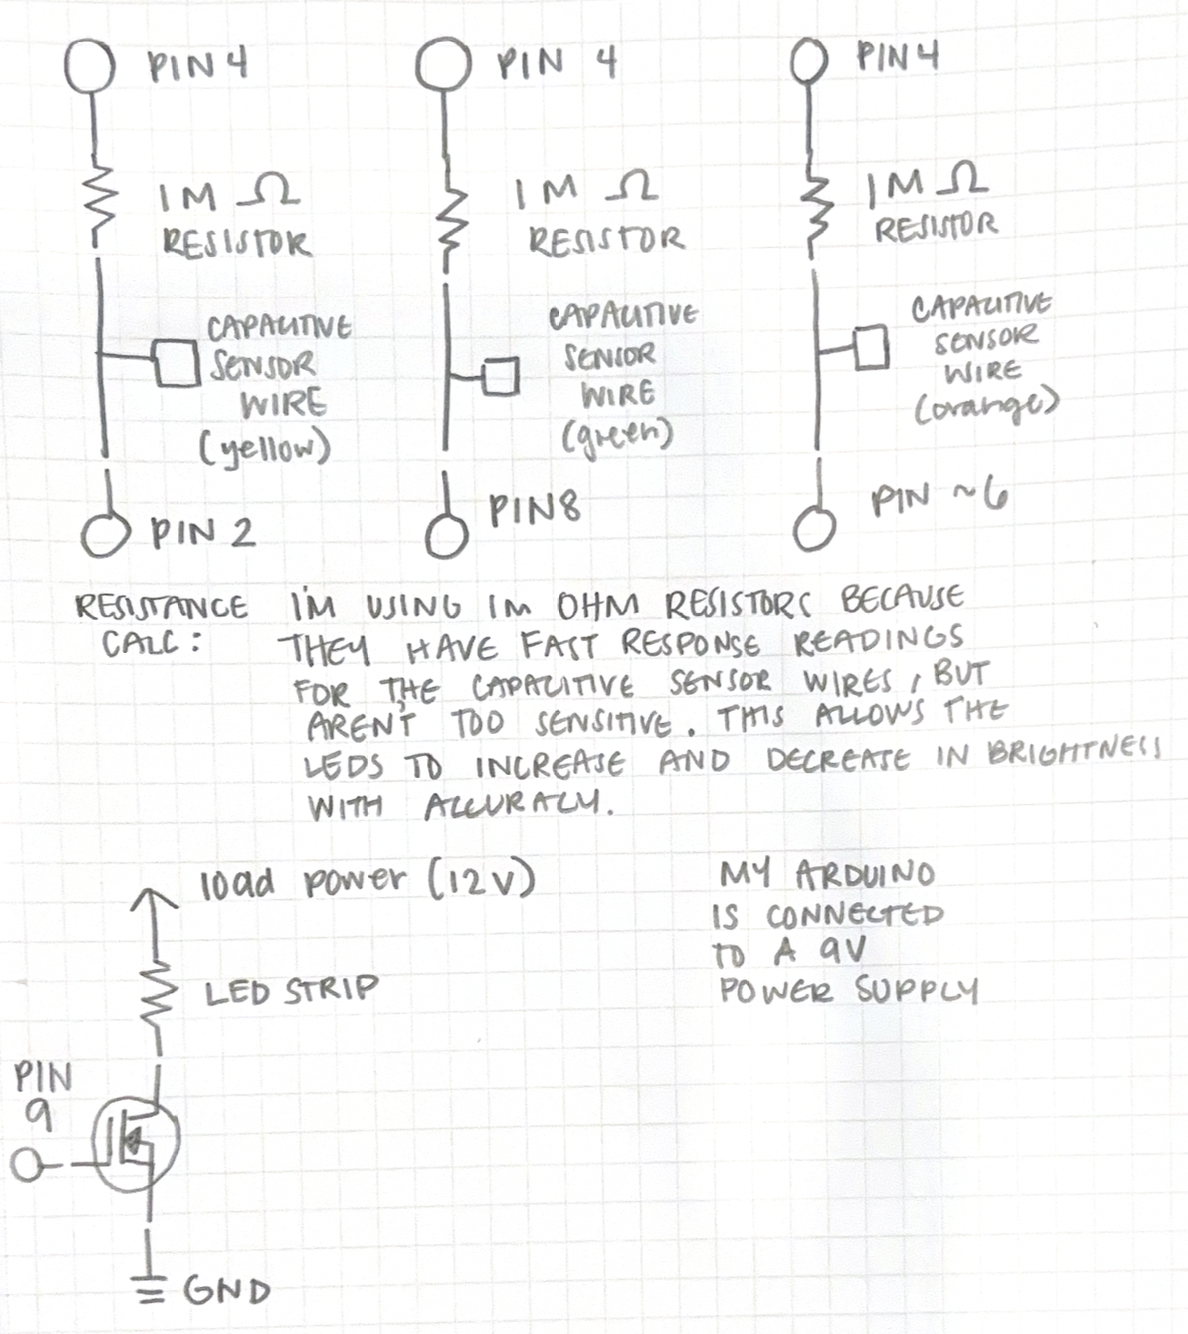
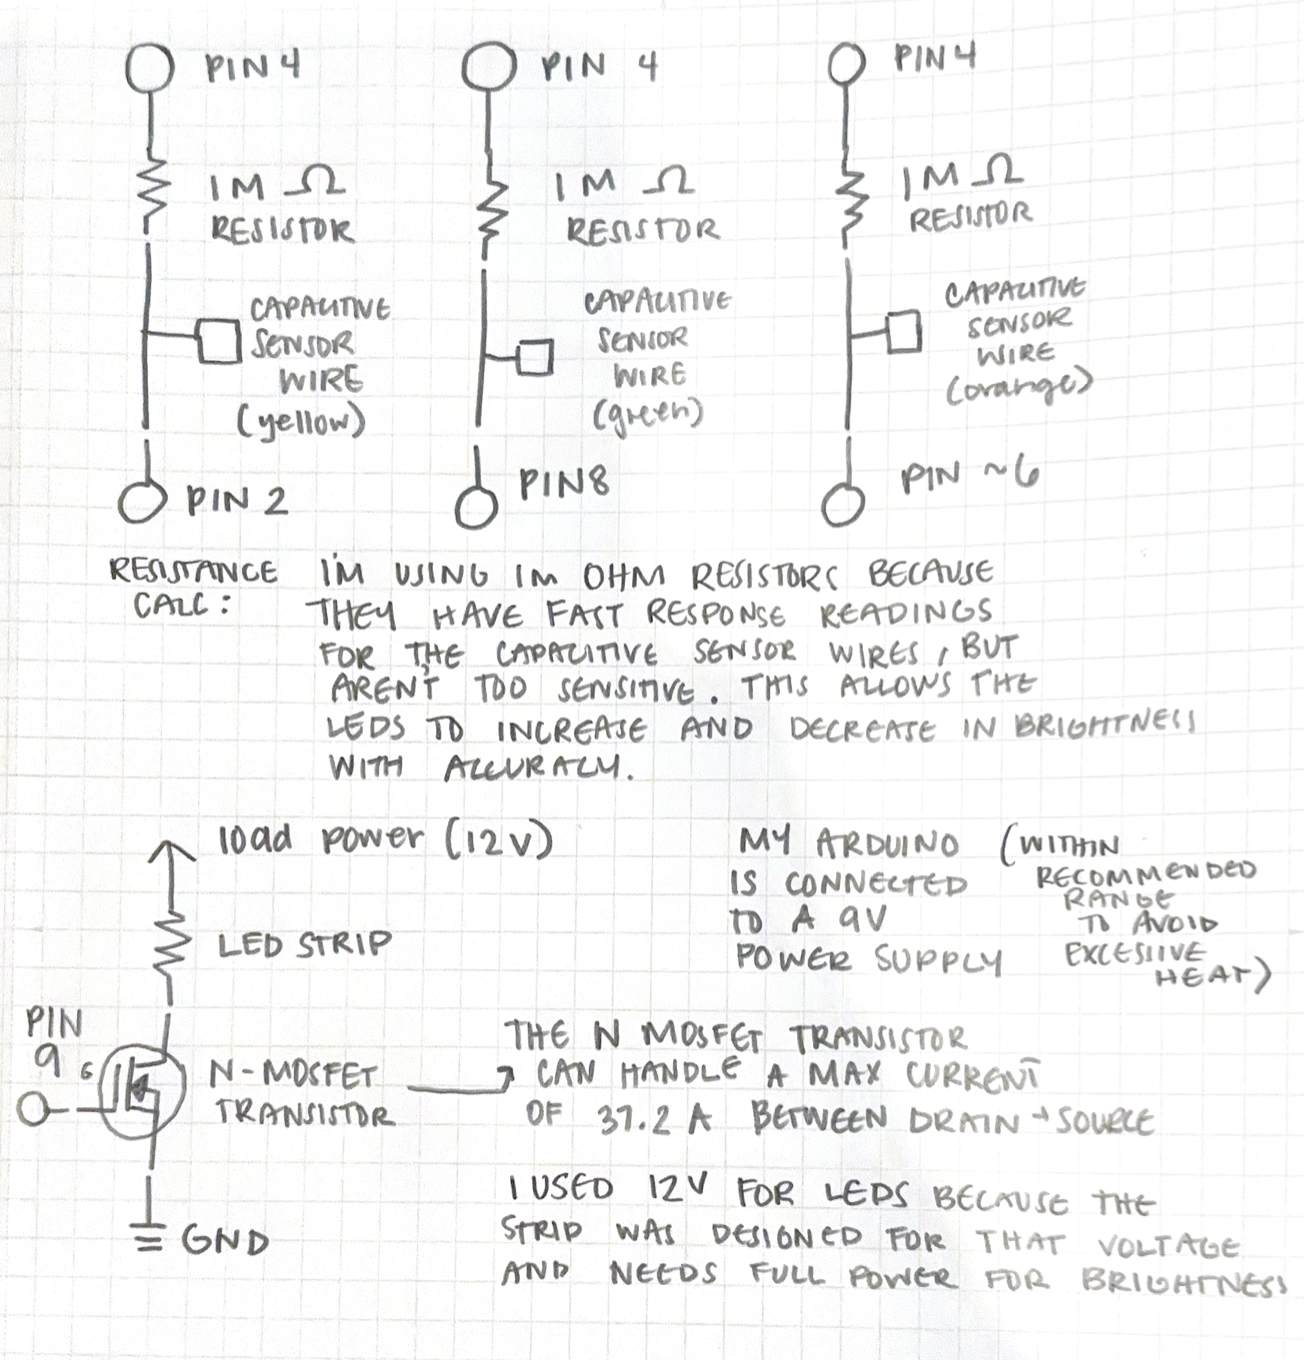
a5

diff --git a/a5.html b/a5.html
@@ -53,7 +53,7 @@
 
             #include <CapacitiveSensor.h>
 
-            int ledPin = 9; // PWM connected to MOSEFT, controls 12v LED strip
+            int ledPin = 9; // PWM connected to N-MOSEFT, controls 12v LED strip
 
             // Capacitive sensors 
             CapacitiveSensor cs_4_2 = CapacitiveSensor(4,2); // 1M resistor between pins 4 & 2, pin 2 is sensor pin, add a wire and or foil if desired
@@ -84,6 +84,7 @@
             Serial.println(total3); // print sensor output 3
 
             // if sensor 1 is touched (value exceeds the threshold), increase brightness
+            // I determined threshold value of 1000 through serial monitor testing
             if(total1> 1000){
                 brightness = min(brightness + touch_change, 255);
             }
@@ -119,24 +120,62 @@
 
             <h3>Question 1</h3>
             <p>
-             
+             The absolute maximum amount of current between pin 2 and pin 3 is: 
+             <ul>
+                <li>Continuous Drain Current: 37.2 A</li>
+                <li>Pulsed Drain Current: 80 A</li>
             </p>
 
             <h3>Question 2</h3>
             <p>
-            <pre>
-                <code>
-                    
-
-                </code>
-            </pre> 
+            <img src="a5sq2.png" class="Schematic.jpeg" />
             </p>
 
               <h3>Question 3</h3>
             <p> 
+            <img src="a5sq3.png" class="Schematic.jpeg" />
              <pre>
                 <code>
-                   
+                  //motor A pins
+                  motorAforward
+                motorAbackward
+                motorAon
+                  //motor B pins
+
+                //setup function
+                pinMode(2, OUTPUT);
+                pinMode(3, OUTPUT);
+                pinMode(4, OUTPUT);
+                pinMode(5, OUTPUT);
+            
+
+                // use analogWrite function on enable pins to set motors to medium speed
+
+                //motors forward
+                digitalWrite(2, HIGH);
+                digitalWrite(3, LOW);
+                digitalWrite(4, HIGH);
+                digitalWrite(5, LOW);
+
+                //motors backward
+                digitalWrite(2, LOW);
+                digitalWrite(3, HIGH);
+                digitalWrite(4, LOW);
+                digitalWrite(5, HIGH);
+
+                //one forward, one backward
+                digitalWrite(2, HIGH);
+                digitalWrite(3, LOW);
+                digitalWrite(4, LOW);
+                digitalWrite(5, HIGH);
+
+                //one back then one forward
+                digitalWrite(2, LOW);
+                digitalWrite(3, HIGH);
+                digitalWrite(4, HIGH);
+                digitalWrite(5, LOW);
+
+        
 
 
 
@@ -146,8 +185,8 @@
 
             <h3>Question 4</h3>
             <p>
-              I used Microsoft CoPilot to help 
-            <section>
+              No AI used to complete the assignment.
+            </p>
       </main>
   </body>
 </html>
